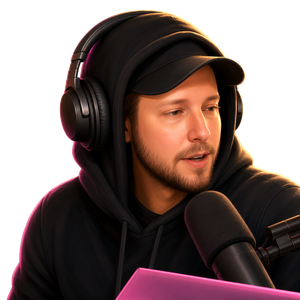
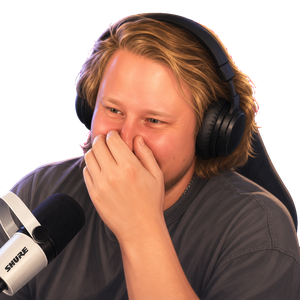
Add more streamer profiles and portraits

diff --git a/src/data/streamers.ts b/src/data/streamers.ts
@@ -72,6 +72,12 @@ const names = [
   "MCMDesigns",
   "LordHappyCats",
   "BloodyDrongo",
+  "Sanjioker",
+  "GYmedia",
+  "Kaztelle",
+  "ZiggyDLive",
+  "xara",
+  "mee_shell",
   "OPEN SLOT 12",
   "OPEN SLOT 13",
   "OPEN SLOT 14",
@@ -262,6 +268,36 @@ const streamerAssets: Partial<Record<string, StreamerAssets>> = {
     image: "/streamers/bloodydrongo.png",
     profileUrl: "https://www.twitch.tv/BloodyDrongo",
     twitchHandle: "bloodydrongo",
+  },
+  Sanjioker: {
+    image: "/streamers/sanjioker.png",
+    profileUrl: "https://www.twitch.tv/sanjioker",
+    twitchHandle: "sanjioker",
+  },
+  GYmedia: {
+    image: "/streamers/gymedia.png",
+    profileUrl: "https://www.twitch.tv/gymedia",
+    twitchHandle: "gymedia",
+  },
+  Kaztelle: {
+    image: "/streamers/kaztelle.png",
+    profileUrl: "https://www.twitch.tv/kaztelle",
+    twitchHandle: "kaztelle",
+  },
+  ZiggyDLive: {
+    image: "/streamers/ziggydlive.jpeg",
+    profileUrl: "https://www.twitch.tv/ziggydlive",
+    twitchHandle: "ziggydlive",
+  },
+  xara: {
+    image: "/streamers/xara.png",
+    profileUrl: "https://www.twitch.tv/xara",
+    twitchHandle: "xara",
+  },
+  mee_shell: {
+    image: "/streamers/mee_shell.png",
+    profileUrl: "https://www.twitch.tv/mee_shell",
+    twitchHandle: "mee_shell",
   },
 };
 
